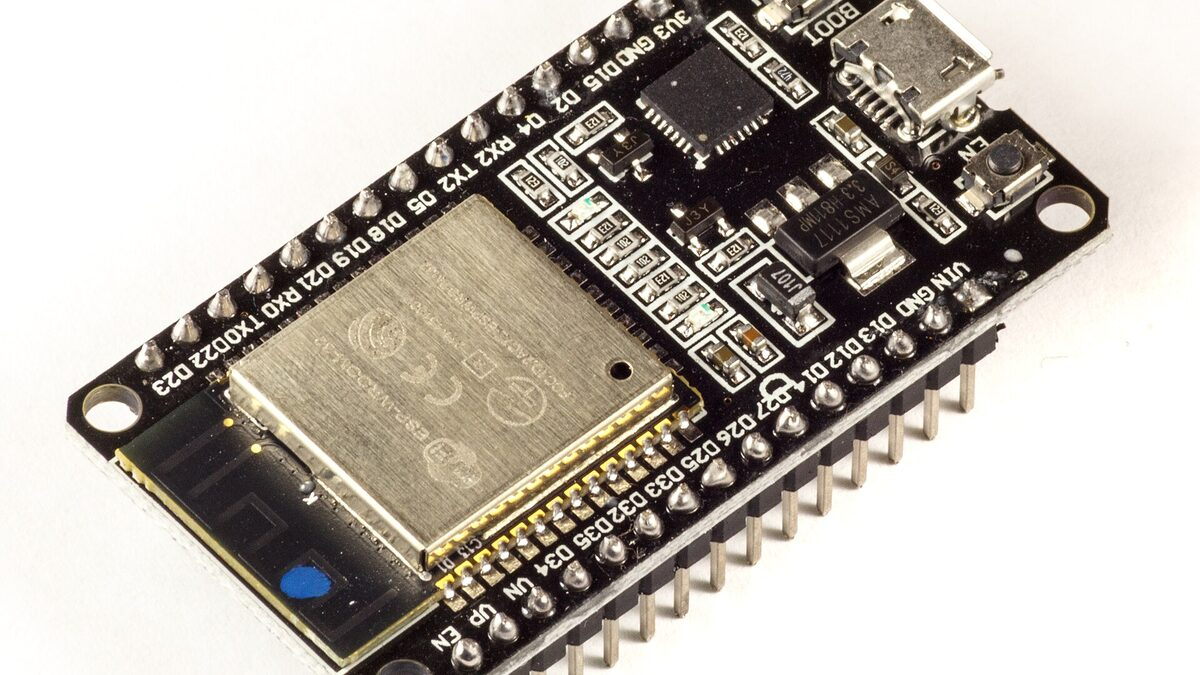
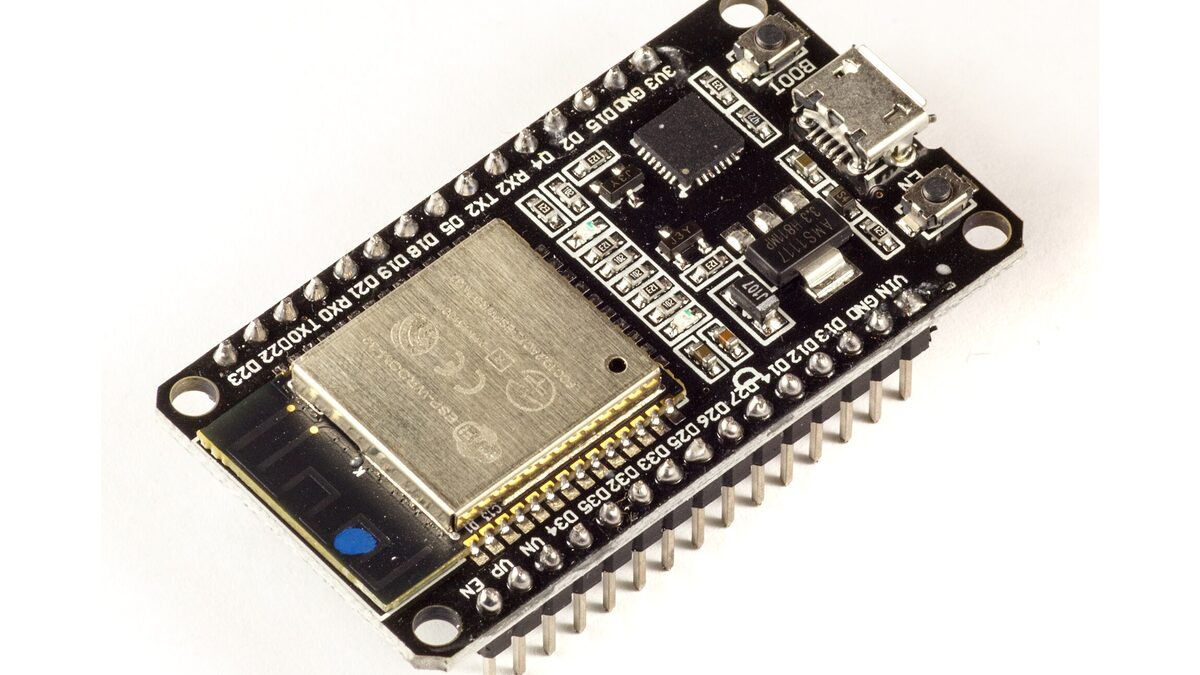
content(blog): portada, diagramas, foto y enlaces en el post de errores de PCB con ESP32
Portada CC0 del módulo ESP-WROOM-32, foto CC BY-SA del módulo sin blindaje, comparativas de zona de antena y desacoplo, flujo Mermaid de los pines de strapping y enlaces a la guía de diseño de Espressif. Incluye la versión en inglés y reencuadra la portada del post de consumo.

diff --git a/content/spanish/blog/errores-pcb-esp32/index.md b/content/spanish/blog/errores-pcb-esp32/index.md
@@ -6,25 +6,42 @@ publishDate: 2026-07-22T00:00:00+02:00
 draft: true
 tags: ["esp32", "pcb", "electrónica", "kicad"]
 author: "Hackerspace Valencia"
+cover: cover.jpg
 based_on: '<a href="https://kensocircuits.com/">Kenso Circuits</a>'
 ---
-El ESP32 es una opción habitual en proyectos maker: bajo coste, WiFi y Bluetooth integrados y documentación abundante. Sin embargo, existe una diferencia importante entre un montaje en protoboard y un diseño propio en placa de circuito impreso. En ese salto aparecen errores que solo se manifiestan cuando la placa llega fabricada y no arranca. Esta guía repasa los más frecuentes para que tu próxima PCB funcione a la primera.
+El [ESP32](/blog/empezar-con-esp32/) es una opción habitual en proyectos maker: bajo coste, WiFi y Bluetooth integrados y documentación abundante. Sin embargo, existe una diferencia importante entre un montaje en protoboard y un [diseño propio en placa de circuito impreso](/blog/del-kit-a-la-pcb-propia/). En ese salto aparecen errores que solo se manifiestan cuando la placa llega fabricada y no arranca. Esta guía repasa los más frecuentes para que tu próxima PCB funcione a la primera.
 
 ## Zona de la antena
 
-El módulo WROOM o WROVER integra una antena impresa en uno de sus bordes. Esta antena requiere espacio libre de cobre y de metal en todas las capas; de lo contrario, el alcance de la WiFi se degrada de forma notable. Respeta el área de exclusión (keepout) que documenta el fabricante y no dispongas pistas, planos de masa ni componentes bajo esa zona. Evita además instalar el módulo dentro de una caja metálica cerrada. Es el error más frecuente y el más difícil de diagnosticar, porque la placa funciona, aunque con cobertura reducida.
+El módulo WROOM o WROVER integra una antena impresa en uno de sus bordes. Esta antena requiere espacio libre de cobre y de metal en todas las capas; de lo contrario, el alcance de la WiFi se degrada de forma notable. Respeta el [área de exclusión (keepout) que documenta el fabricante](https://docs.espressif.com/projects/esp-hardware-design-guidelines/en/latest/esp32/pcb-layout-design.html#general-principles-of-pcb-layout-for-modules-positioning-a-module-on-a-base-board) y no dispongas pistas, planos de masa ni componentes bajo esa zona. Evita además instalar el módulo dentro de una caja metálica cerrada. Es el error más frecuente y el más difícil de diagnosticar, porque la placa funciona, aunque con cobertura reducida.
+
+{{< figure src="modulo-esp32-sin-blindaje.jpg" alt="Módulo ESP-WROOM-32 sin la tapa metálica: a la izquierda se ve la antena impresa en zigzag y a la derecha el chip ESP32, la memoria flash y los condensadores" caption="Módulo ESP32 sin blindaje. La antena impresa ocupa el extremo izquierdo y necesita espacio libre de cobre a su alrededor. Foto: Brian Krent, CC BY-SA 4.0." >}}
+
+![Comparación de dos placas: en la incorrecta, el plano de masa y una pista pasan bajo la antena del módulo; en la correcta, la antena sobresale del borde de la placa dentro de una zona libre de cobre](antena-keepout.svg "La antena necesita una zona libre de cobre en todas las capas; lo más sencillo es dejarla asomando por el borde de la placa.")
 
 ## Condensadores de desacoplo
 
 Durante los picos de transmisión WiFi el ESP32 puede demandar cientos de miliamperios en microsegundos. Si la alimentación no llega limpia, el chip se reinicia sin previo aviso. Cada par VCC/GND del módulo necesita su condensador de desacoplo junto al pin: habitualmente un condensador de 100 nF más otro de 10 µF en las proximidades. La distancia correcta se mide en milímetros, no en centímetros: un desacoplo alejado equivale a reinicios aleatorios.
 
+![Comparación de desacoplo: a la izquierda, condensadores de 100 nF y 10 µF junto a los pines 3V3 y GND del módulo con un bucle de corriente pequeño; a la derecha, un único condensador lejos del módulo que forma un bucle grande](desacoplo.svg "Cuanto más cerca del pin está el condensador, más pequeño es el bucle y más limpia llega la alimentación en los picos.")
+
 ## Alimentación a 3,3 V
 
-El ESP32 funciona a 3,3 V, no a 5 V. Aplicar 5 V en el pin de alimentación daña el chip de forma permanente. Además de la tensión correcta, el regulador debe suministrar la corriente de los picos: un LDO de 100 mA resulta insuficiente. Considera demandas del orden de 500 mA en ráfagas y dimensiona el regulador en consecuencia. Con alimentación de batería o cuando la eficiencia es crítica, un regulador conmutado reduce el calentamiento y extiende la autonomía.
+El ESP32 funciona a 3,3 V, no a 5 V. Aplicar 5 V en el pin de alimentación daña el chip de forma permanente. Además de la tensión correcta, el regulador debe suministrar la corriente de los picos: un LDO de 100 mA resulta insuficiente. Considera demandas del orden de 500 mA en ráfagas y dimensiona el regulador en consecuencia. Con alimentación de batería o cuando la eficiencia es crítica, un [regulador conmutado](/blog/ldo-vs-dc-dc/) reduce el calentamiento y extiende la autonomía.
 
 ## Pines de arranque (strapping)
 
-Durante el encendido, varios pines deben encontrarse en un nivel determinado para que el chip arranque en modo normal y lea la memoria flash: GPIO0, GPIO2, GPIO5, GPIO12 y GPIO15. Si tu diseño utiliza alguno de ellos como entrada conectada a un pulsador o a un sensor que lo fija en el nivel contrario, la placa no arrancará o lo hará en un modo incorrecto. GPIO12 (MTDI) requiere atención especial: si está a nivel alto durante el arranque, la memoria flash interna se alimenta a 1,8 V en lugar de 3,3 V y el módulo no arranca correctamente. Consulta la tabla de strapping del fabricante antes de asignar estos pines a funciones críticas.
+Durante el encendido, varios pines deben encontrarse en un nivel determinado para que el chip arranque en modo normal y lea la memoria flash: GPIO0, GPIO2, GPIO5, GPIO12 y GPIO15. Si tu diseño utiliza alguno de ellos como entrada conectada a un pulsador o a un sensor que lo fija en el nivel contrario, la placa no arrancará o lo hará en un modo incorrecto. GPIO12 (MTDI) requiere atención especial: si está a nivel alto durante el arranque, la memoria flash interna se alimenta a 1,8 V en lugar de 3,3 V y el módulo no arranca correctamente. Consulta la [tabla de strapping del fabricante](https://docs.espressif.com/projects/esp-hardware-design-guidelines/en/latest/esp32/schematic-checklist.html#strapping-pins) antes de asignar estos pines a funciones críticas.
+
+```mermaid
+flowchart TD
+  P["Encendido o reset"] --> L["El chip lee los pines de strapping"]
+  L --> G0["¿GPIO0 a nivel bajo?"]
+  G0 -->|"Sí"| D["Modo descarga: espera firmware por UART"]
+  G0 -->|"No"| G12["¿GPIO12 a nivel alto?"]
+  G12 -->|"Sí"| F["Flash a 1,8 V: no arranca bien"]
+  G12 -->|"No"| N["Arranque normal desde la flash"]
+```
 
 ## Circuito de reset y programación
 
@@ -32,10 +49,15 @@ Para flashear por USB sin intervención manual, las líneas EN y BOOT deben gobe
 
 ## Gestión térmica
 
-El ESP32 disipa calor, especialmente con la WiFi activa. Un plano de masa continuo bajo el módulo ayuda a distribuir esa temperatura. Planos fragmentados o con abundantes cortes agravan los problemas térmicos y de integridad de señal. Diseña con un plano de masa sólido y devuelve las corrientes por caminos cortos.
+El ESP32 disipa calor, especialmente con la WiFi activa. Un plano de masa continuo bajo el módulo ayuda a distribuir esa temperatura. Planos fragmentados o con abundantes cortes agravan los problemas térmicos y de integridad de señal. Diseña con un [plano de masa sólido](/blog/checklist-fabricacion-pcb/) y devuelve las corrientes por caminos cortos.
 
 ## Resumen práctico
 
 La mayoría de incidencias en placas con ESP32 se resumen en cuatro puntos: respetar la zona de la antena, colocar correctamente los condensadores de desacoplo, alimentar con la tensión y corriente adecuadas y verificar los pines de strapping. Con esos puntos controlados, el resto del diseño suele funcionar correctamente.
 
-Si te estás iniciando en el diseño de placas y tienes dudas, acércate al Hackerspace Valencia un martes de puertas abiertas: revisamos tu esquemático entre varios miembros y te ayudamos a evitar encargar una placa que no va a arrancar.
+Si te estás iniciando en el [diseño de placas](/workshops/kicad/) y tienes dudas, acércate al Hackerspace Valencia un martes de puertas abiertas: revisamos tu esquemático entre varios miembros y te ayudamos a evitar encargar una placa que no va a arrancar. Y si quieres usar el taller con regularidad, [hazte socio/a](/pages/alta/).
+
+## Créditos de imágenes
+
+- **Portada** - *ESP32 Espressif ESP-WROOM-32 Shielded* - Ubahnverleih - CC0 - [fuente](https://commons.wikimedia.org/wiki/File:ESP32_Espressif_ESP-WROOM-32_Shielded.jpg)
+- **Módulo sin blindaje** - *Espressif ESP-WROOM-32 Wi-Fi & Bluetooth Module* - Brian Krent - CC BY-SA 4.0 - [fuente](https://commons.wikimedia.org/wiki/File:Espressif_ESP-WROOM-32_Wi-Fi_%26_Bluetooth_Module.jpg)

diff --git a/content/english/blog/esp32-pcb-common-mistakes/index.md b/content/english/blog/esp32-pcb-common-mistakes/index.md
@@ -5,25 +5,42 @@ date: 2026-07-06T00:00:00Z
 draft: true
 tags: ["esp32", "pcb", "electronics", "kicad"]
 author: "Hackerspace Valencia"
+cover: cover.jpg
 based_on: '<a href="https://kensocircuits.com/">Kenso Circuits</a>'
 ---
 The ESP32 is a common choice for maker projects: low cost, built in WiFi and Bluetooth and abundant documentation. There is however a significant difference between a breadboard prototype and a custom printed circuit board. That jump is where mistakes appear which only show up once the fabricated board does not boot. This guide reviews the most frequent ones so your next PCB works on the first try.
 
 ## The antenna area
 
-The WROOM or WROVER module carries a printed antenna on one of its edges. That antenna requires clear space, free of copper and metal on every layer; otherwise WiFi range degrades significantly. Respect the keepout area documented by the manufacturer and keep traces, ground planes and components away from that zone. Also avoid installing the module inside a closed metal enclosure. This is the most frequent mistake and the hardest to diagnose, because the board works, albeit with reduced coverage.
+The WROOM or WROVER module carries a printed antenna on one of its edges. That antenna requires clear space, free of copper and metal on every layer; otherwise WiFi range degrades significantly. Respect the [keepout area documented by the manufacturer](https://docs.espressif.com/projects/esp-hardware-design-guidelines/en/latest/esp32/pcb-layout-design.html#general-principles-of-pcb-layout-for-modules-positioning-a-module-on-a-base-board) and keep traces, ground planes and components away from that zone. Also avoid installing the module inside a closed metal enclosure. This is the most frequent mistake and the hardest to diagnose, because the board works, albeit with reduced coverage.
+
+{{< figure src="modulo-esp32-sin-blindaje.jpg" alt="ESP-WROOM-32 module without its metal can: the zigzag printed antenna is on the left and the ESP32 chip, flash memory and capacitors on the right" caption="ESP32 module without its shield. The printed antenna takes up the left end and needs copper-free space around it. Photo: Brian Krent, CC BY-SA 4.0." >}}
+
+![Two boards compared: on the wrong one, the ground plane and a trace run under the module antenna; on the right one, the antenna sticks out past the board edge inside a copper-free keepout](antena-keepout-en.svg "The antenna needs a copper-free zone on every layer; the simplest option is to let it overhang the board edge.")
 
 ## Decoupling capacitors
 
 During WiFi transmit bursts the ESP32 can draw hundreds of milliamps in microseconds. If the supply does not arrive clean, the chip resets without warning. Every VCC/GND pair on the module needs its decoupling capacitor next to the pin: typically a 100 nF capacitor plus a larger 10 µF one nearby. The correct distance is measured in millimetres, not centimetres: poorly placed decoupling translates into random resets.
 
+![Decoupling compared: on the left, 100 nF and 10 µF capacitors right next to the module 3V3 and GND pins with a small current loop; on the right, a single capacitor far from the module forming a large loop](desacoplo-en.svg "The closer the capacitor is to the pin, the smaller the loop and the cleaner the supply during current peaks.")
+
 ## The 3.3 V supply
 
-The ESP32 runs at 3.3 V, not 5 V. Applying 5 V to the power pin permanently damages the chip. Beyond the correct voltage, the regulator must deliver the burst current: a 100 mA LDO is insufficient. Expect demands on the order of 500 mA in spikes and size the regulator accordingly. On battery power or where efficiency is critical, a switching regulator reduces heat and extends battery life.
+The ESP32 runs at 3.3 V, not 5 V. Applying 5 V to the power pin permanently damages the chip. Beyond the correct voltage, the regulator must deliver the burst current: a 100 mA LDO is insufficient. Expect demands on the order of 500 mA in spikes and size the regulator accordingly. On battery power or where efficiency is critical, a [switching regulator](/en/blog/ldo-vs-dcdc/) reduces heat and extends battery life.
 
 ## Boot strapping pins
 
-During power-up several pins must sit at a defined level so the chip boots normally and reads its flash: GPIO0, GPIO2, GPIO5, GPIO12 and GPIO15. If your design uses one of them as an input tied to a button or a sensor that pulls it to the opposite level, the board will not boot or will come up in the wrong mode. GPIO12 (MTDI) deserves particular attention: if held high at boot, the internal flash is powered at 1.8 V instead of 3.3 V and the module fails to start correctly. Check the manufacturer's strapping table before assigning these pins to any critical function.
+During power-up several pins must sit at a defined level so the chip boots normally and reads its flash: GPIO0, GPIO2, GPIO5, GPIO12 and GPIO15. If your design uses one of them as an input tied to a button or a sensor that pulls it to the opposite level, the board will not boot or will come up in the wrong mode. GPIO12 (MTDI) deserves particular attention: if held high at boot, the internal flash is powered at 1.8 V instead of 3.3 V and the module fails to start correctly. Check the [manufacturer's strapping table](https://docs.espressif.com/projects/esp-hardware-design-guidelines/en/latest/esp32/schematic-checklist.html#strapping-pins) before assigning these pins to any critical function.
+
+```mermaid
+flowchart TD
+  P["Power-up or reset"] --> L["Chip samples the strapping pins"]
+  L --> G0["GPIO0 low?"]
+  G0 -->|"Yes"| D["Download mode: waits for firmware over UART"]
+  G0 -->|"No"| G12["GPIO12 high?"]
+  G12 -->|"Yes"| F["Flash at 1.8 V: fails to boot properly"]
+  G12 -->|"No"| N["Normal boot from flash"]
+```
 
 ## The reset and programming circuit
 
@@ -31,10 +48,15 @@ To flash over USB without manual intervention, the EN and BOOT lines must be dri
 
 ## Thermal management
 
-The ESP32 dissipates heat, especially with WiFi active. A continuous ground plane under the module helps spread that temperature. Split ground planes or planes full of cuts aggravate both thermal and signal integrity problems. Design with a solid ground plane and keep return currents on short paths.
+The ESP32 dissipates heat, especially with WiFi active. A continuous ground plane under the module helps spread that temperature. Split ground planes or planes full of cuts aggravate both thermal and signal integrity problems. Design with a [solid ground plane](/en/blog/pcb-fabrication-checklist/) and keep return currents on short paths.
 
 ## Practical summary
 
 Most incidents on ESP32 boards come down to four points: respect the antenna area, place the decoupling capacitors correctly, supply the right voltage and current, and verify the strapping pins. With those points under control the rest of the design usually works as intended.
 
-If you are starting out in board design and have doubts, come to Hackerspace Valencia on any open doors Tuesday: several of us will review your schematic and help you avoid paying for a board that will not boot.
+If you are starting out in [board design](/en/workshops/kicad/) and have doubts, come to Hackerspace Valencia on any open doors Tuesday: several of us will review your schematic and help you avoid paying for a board that will not boot. And if you want to use the workshop regularly, [become a member](/en/pages/alta/).
+
+## Image credits
+
+- **Cover** - *ESP32 Espressif ESP-WROOM-32 Shielded* - Ubahnverleih - CC0 - [source](https://commons.wikimedia.org/wiki/File:ESP32_Espressif_ESP-WROOM-32_Shielded.jpg)
+- **Module without shield** - *Espressif ESP-WROOM-32 Wi-Fi & Bluetooth Module* - Brian Krent - CC BY-SA 4.0 - [source](https://commons.wikimedia.org/wiki/File:Espressif_ESP-WROOM-32_Wi-Fi_%26_Bluetooth_Module.jpg)
